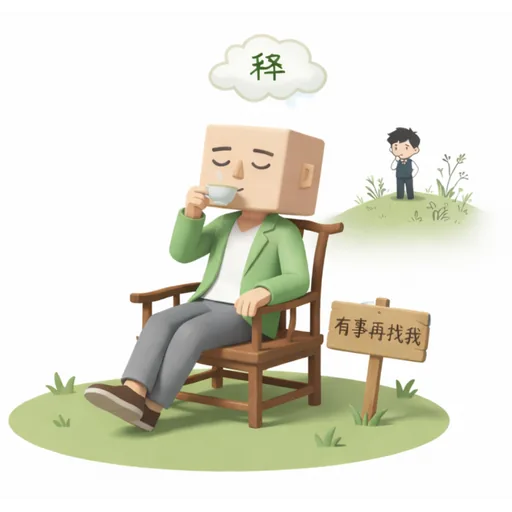
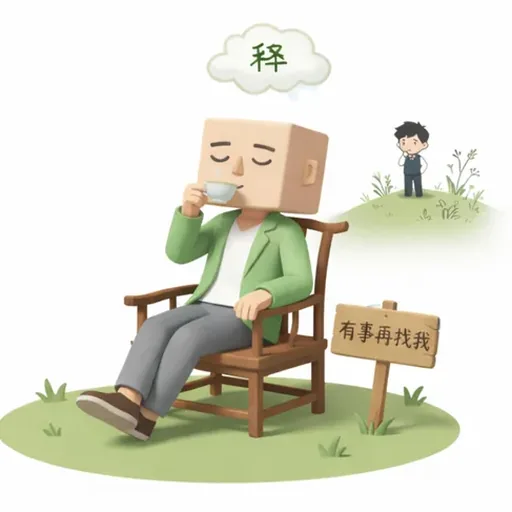
debug

diff --git a/assets/mpti-data.js b/assets/mpti-data.js
@@ -467,7 +467,7 @@
     triggerValue: 2,
     hiddenTypeCode: "WIFI"
   };
-  const imageAssetVersion = "20260413-webp512-square1";
+  const imageAssetVersion = "20260413-webp512-square2";
 
   Object.values(typeLibrary).forEach((type) => {
     type.image = `./images/${type.code}/${type.code}.webp?v=${imageAssetVersion}`;
